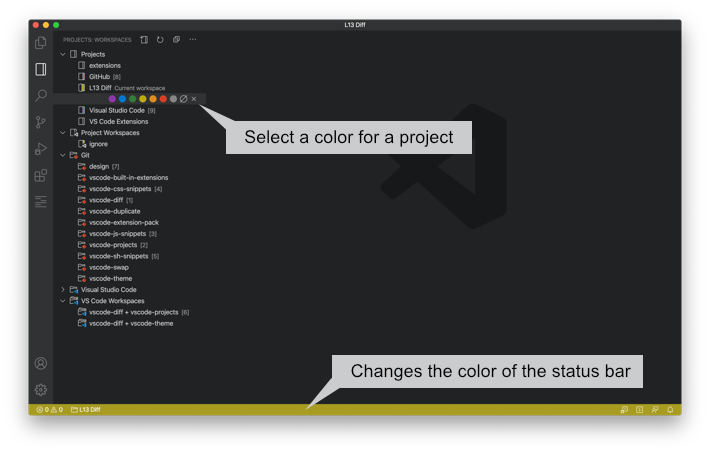
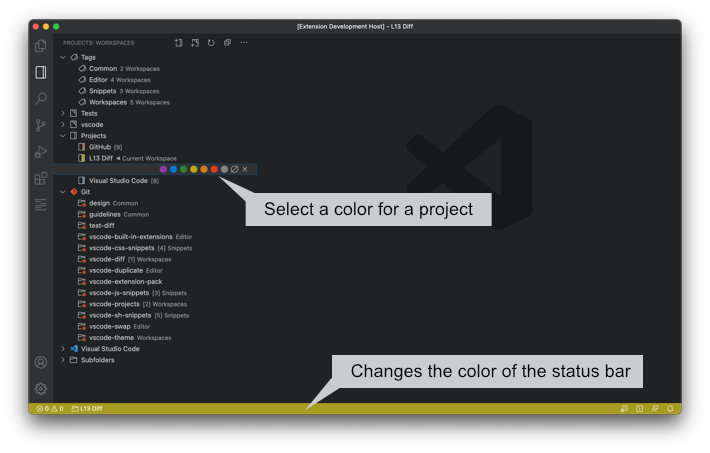
- updated preview images

Changed region(s): [[0.031, 0.0309, 0.9915, 0.9581], [0.4028, 0.0309, 0.5887, 0.0618]]

diff --git a/README.md b/README.md
@@ -39,7 +39,7 @@ Manage your workspaces and projects in Visual Studio Code.
 
 ![Projects](images/previews/preview-workspaces.png)
 
-### Quick Pick and Keyboard Shortcuts
+### Quick Pick, Tags and Keyboard Shortcuts
 
 ![Projects Quick Menu](images/previews/preview-quick-menu.png)
 
